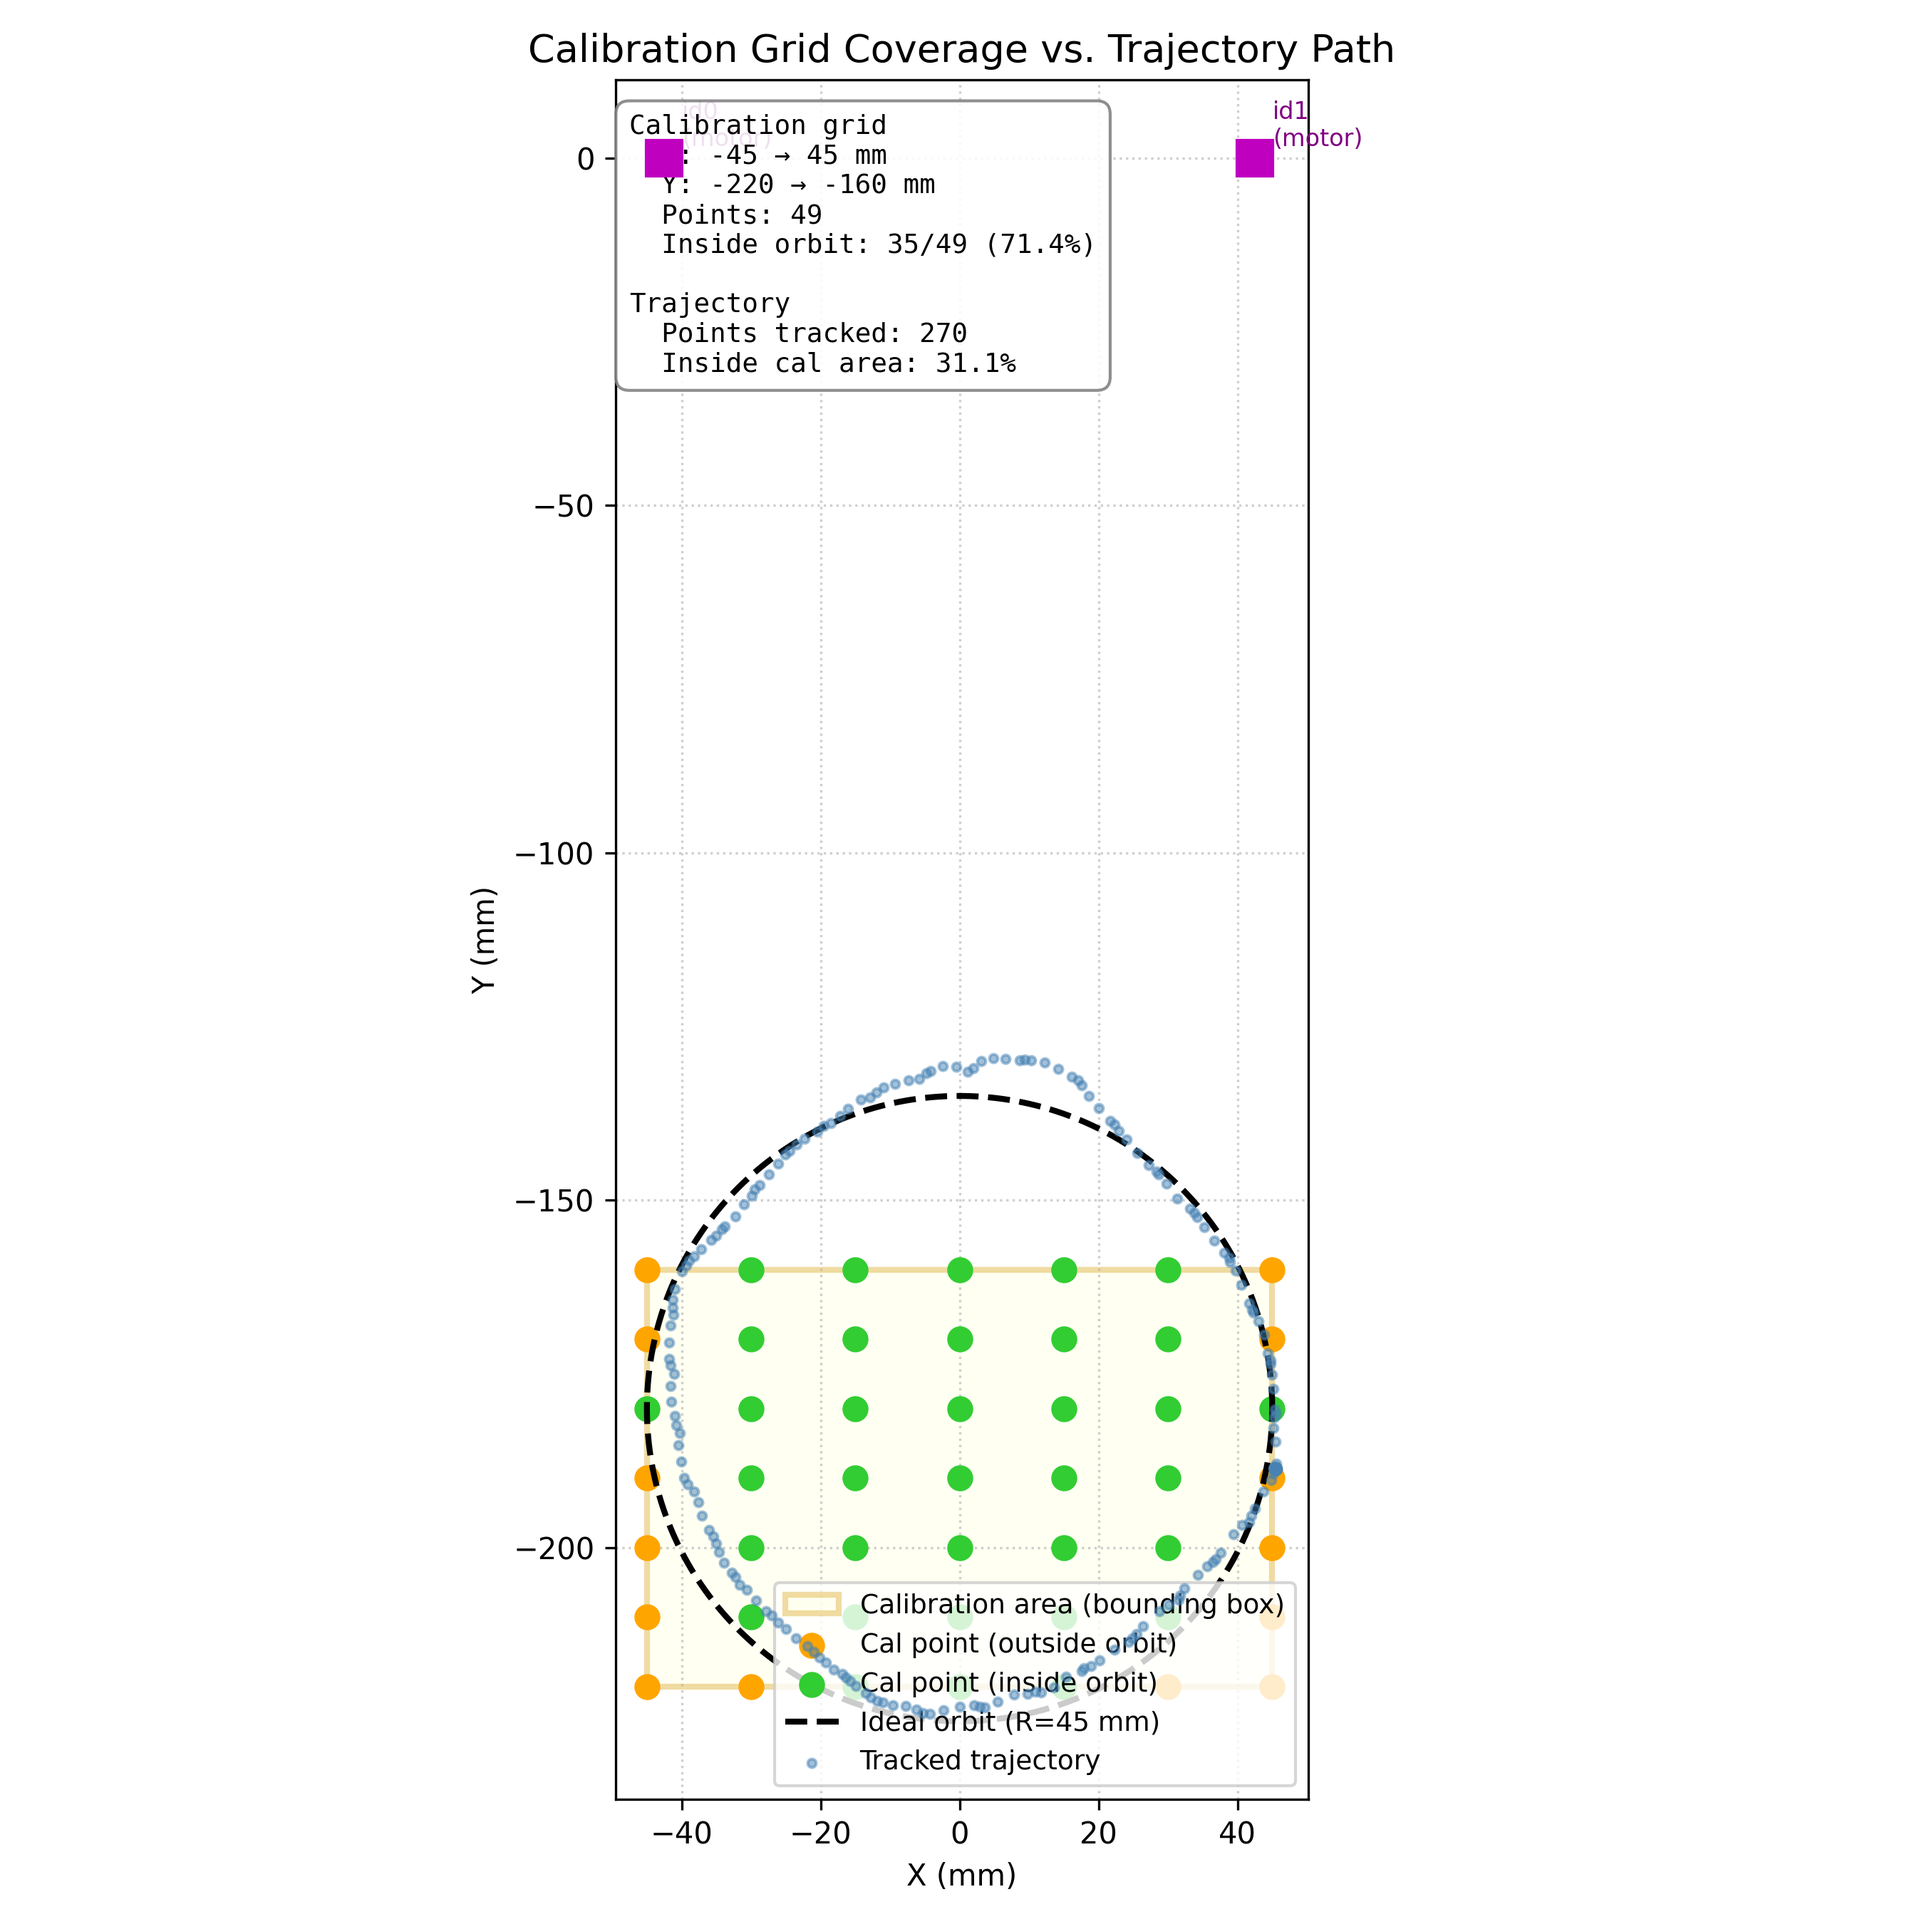
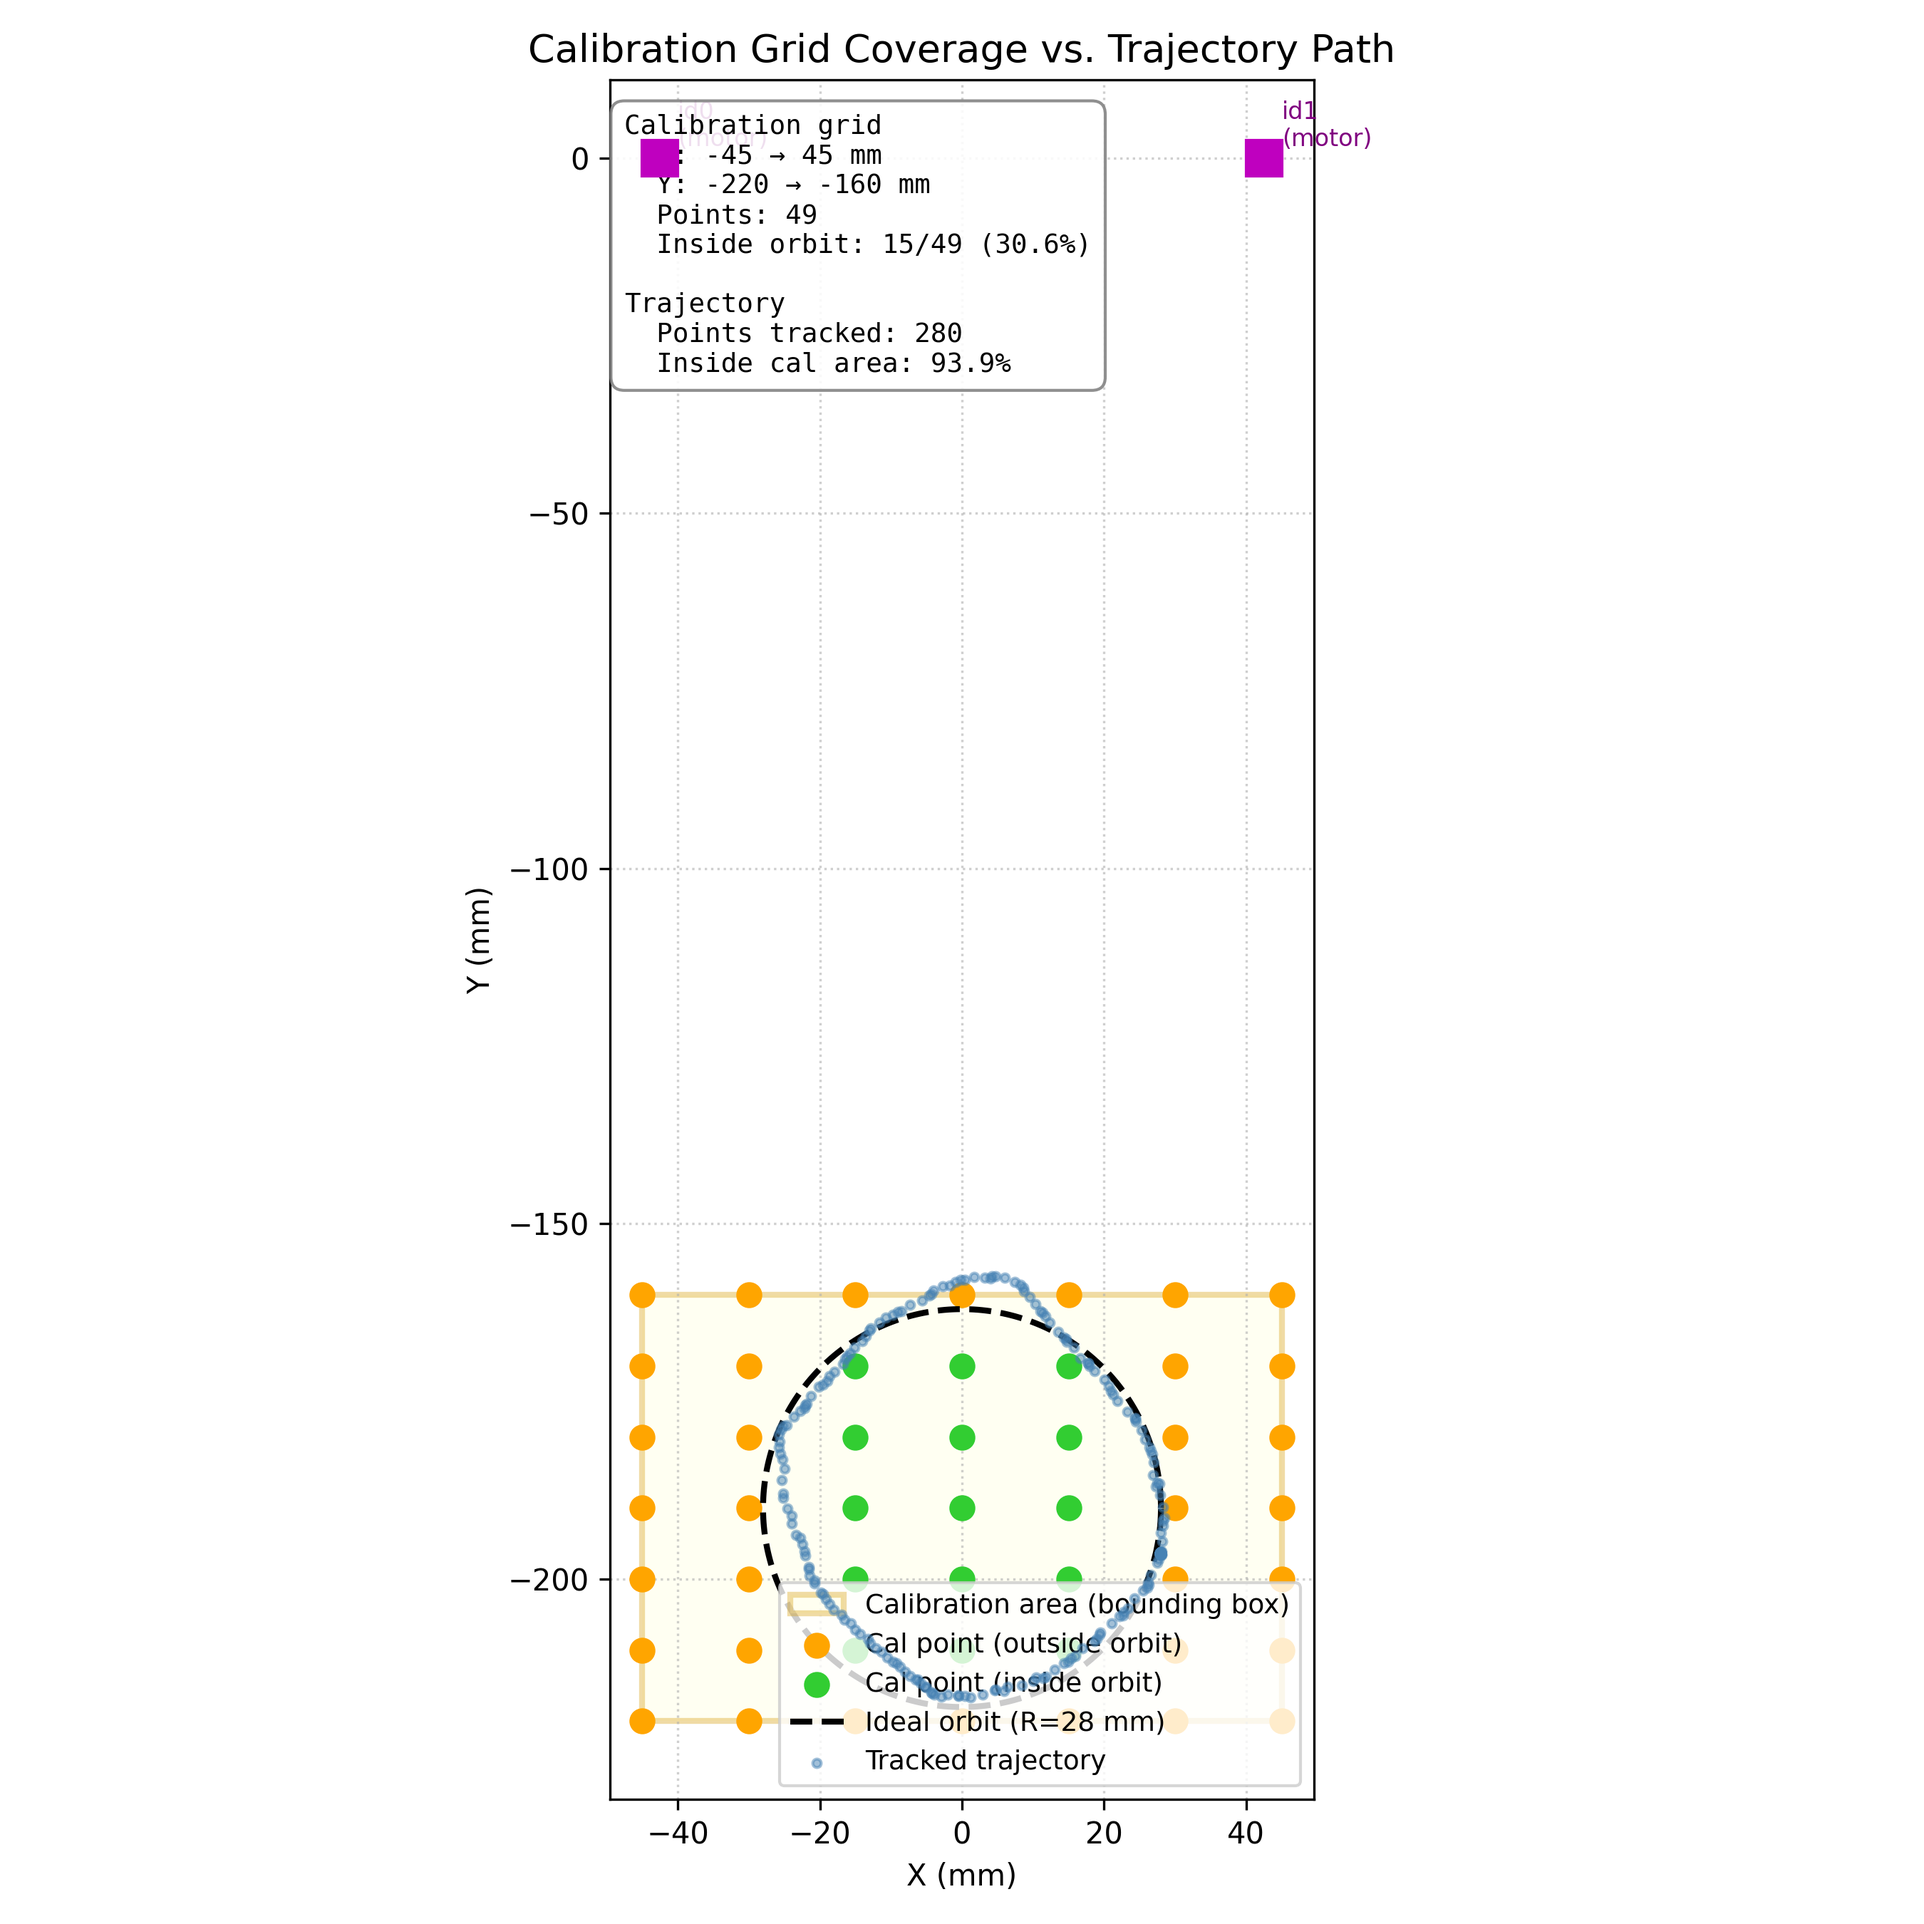
Update video paths and calibration parameters for trajectory evaluation

diff --git a/python/paper_testing/test_2/vision_based_trajectory_eval.py b/python/paper_testing/test_2/vision_based_trajectory_eval.py
@@ -7,8 +7,8 @@ import matplotlib.pyplot as plt
 # ==========================================
 # 1. ตั้งค่าพารามิเตอร์
 # ==========================================
-VIDEO_UNCOMP = r"C:\Users\mteer\OneDrive\Desktop\nocomp_45_0_-180_5.MOV"   # ไฟล์วิดีโอแบบ ไม่ชดเชย (ปิด ML)
-VIDEO_COMP   = r"C:\Users\mteer\OneDrive\Desktop\comp_45_0_-180_5.MOV"     # ไฟล์วิดีโอแบบ ชดเชย (เปิด ML)
+VIDEO_UNCOMP = r"C:\Users\mteer\OneDrive\Desktop\nocomp_28_0_-190_5.MOV"   # ไฟล์วิดีโอแบบ ไม่ชดเชย (ปิด ML)
+VIDEO_COMP   = r"C:\Users\mteer\OneDrive\Desktop\comp_28_0_-190_5.MOV"     # ไฟล์วิดีโอแบบ ชดเชย (เปิด ML)
 CALIB_FILE   = os.path.join(os.path.dirname(os.path.abspath(__file__)), "calibration_olympus25mm.npz")
 
 TARGET_ID = 4  # ID ของ ArTag ที่ปลายเท้า (เคลื่อนที่)
@@ -24,8 +24,8 @@ REF_DIST_MM = np.linalg.norm(REF_WORLD[1] - REF_WORLD[0])  # = 85.0 mm
 FRAME_STEP  = 1      # ประมวลผลทุก N เฟรม (1 = ทุกเฟรม, 3 = ข้าม 2)
 
 CENTER_X_MM = 0.0       # จุดศูนย์กลางวงโคจรอุดมคติ แกน X
-CENTER_Y_MM = -180.0    # จุดศูนย์กลางวงโคจรอุดมคติ แกน Y
-RADIUS_MM   = 45.0      # รัศมีวงโคจรอุดมคติ
+CENTER_Y_MM = -190.0    # จุดศูนย์กลางวงโคจรอุดมคติ แกน Y
+RADIUS_MM   = 28.0      # รัศมีวงโคจรอุดมคติ
 
 # ==========================================
 # 2. Helper: แปลงผล detectMarkers เป็น dict {id: center_px}

diff --git a/python/paper_testing/test_2/calibration_coverage_check.py b/python/paper_testing/test_2/calibration_coverage_check.py
@@ -26,7 +26,7 @@ from matplotlib.collections import PatchCollection
 # ─────────────────────────────────────────
 # 1. CONFIG  (แก้ค่าที่นี่)
 # ─────────────────────────────────────────
-VIDEO_PATH  = r"C:\Users\mteer\OneDrive\Desktop\comp_45_0_-180_5.MOV"
+VIDEO_PATH  = r"C:\Users\mteer\OneDrive\Desktop\comp_28_0_-190_5.MOV"
 CALIB_FILE  = os.path.join(os.path.dirname(os.path.abspath(__file__)),
                             "calibration_olympus25mm.npz")
 GRID_CSV    = os.path.join(os.path.dirname(os.path.abspath(__file__)),
@@ -43,8 +43,8 @@ REF_WORLD = {
 
 # วงโคจรอุดมคติ
 CENTER_X_MM = 0.0
-CENTER_Y_MM = -180.0
-RADIUS_MM   = 45.0
+CENTER_Y_MM = -190.0
+RADIUS_MM   = 28.0
 
 # output paths
 OUT_VIDEO   = os.path.join(os.path.dirname(os.path.abspath(VIDEO_PATH)),
